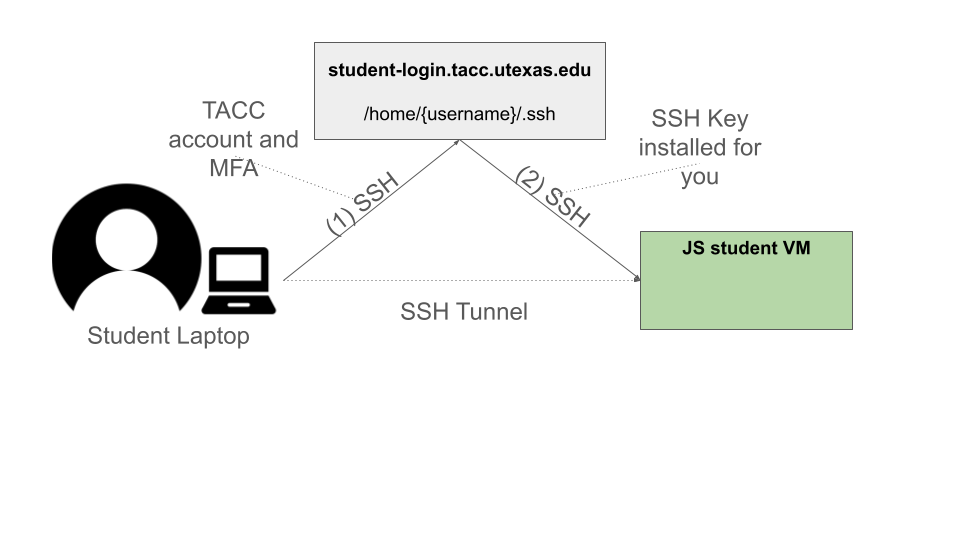
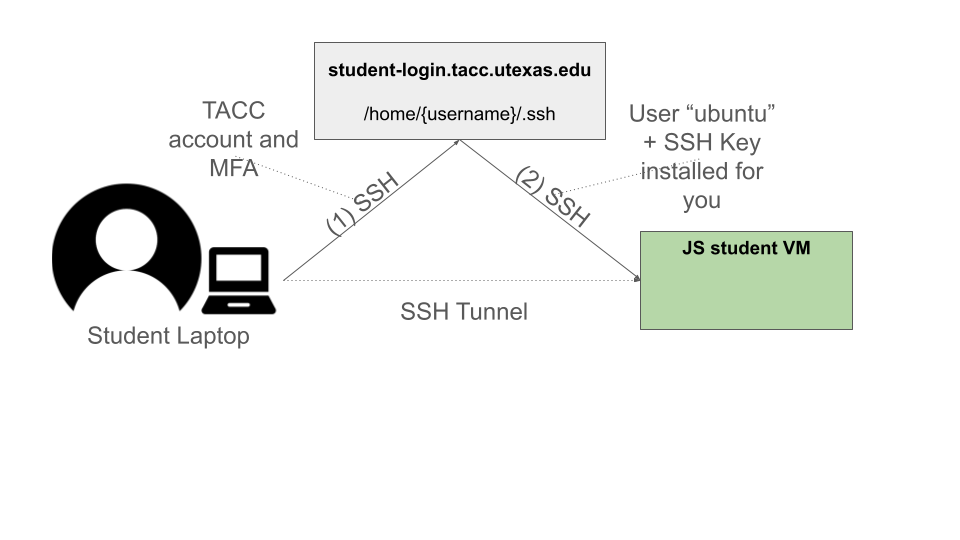
Add instructions for ssh

Changed region(s): [[0.6562, 0.1778, 0.8125, 0.3852]]

diff --git a/docs/unit01/class_vm.rst b/docs/unit01/class_vm.rst
@@ -12,9 +12,7 @@ SSH Access To Your VM
 For security purposes, the student VMs will be behind a firewall and will not be directly accessible to the 
 public internet. 
 To access your VM via SSH, you will need to first SSH to the login VM. This year, the login VM will be 
-located at: 
-
-          | student-login.tacc.utexas.edu 
+located at: **student-login.tacc.utexas.edu**
 
 
 .. figure:: ./images/ssh-to-vm.png
@@ -23,6 +21,16 @@ located at:
     :alt: SSH to student VM in two steps 
 
     SSH to student VM in two steps
+
+Steps to SSH to Student VM:
+
+1. First, SSH to the login VM (student-login.tacc.utexas.edu) using your TACC username, password and MFA token. 
+2. From student-login.tacc.utexas.edu, ssh as user ``ubuntu`` to your student VM (``ssh ubuntu@129.114.xx.yy``).
+   You shouldn't need to specify any password or credentials -- SSH should use the key file on student-login 
+and connect automatically. 
+
+If you use Linux or OSX on your laptop, it might be helpful to add an entry in your $HOME/.ssh/config 
+file (see the section below on connecting with VSCode).
 
 
 Running Code on the VM
@@ -211,7 +219,7 @@ or restarted, just like with a Python/iPython shell.
     :alt: An open notebook file with code cells doing imports and code execution. Output is shows directly below the code cells.
 
     An open notebook file with code cells doing imports and code execution. Output is shows directly below the code cells.
-    
+
 
 
 

diff --git a/docs/unit01/class_intro.rst b/docs/unit01/class_intro.rst
@@ -10,7 +10,7 @@ Class Introduction
 
 **Instructors:**
 
-* Joe Stubbs, jstubbs@tacc.utexas.edu
+* Joe Stubbs, jstubbs@tacc.utexas.edu, POB 6.436; ACB 2.246 (on Pickle Research Campus) 
 * Anagha Jamthe, ajamthe@tacc.utexas.edu
 
 
